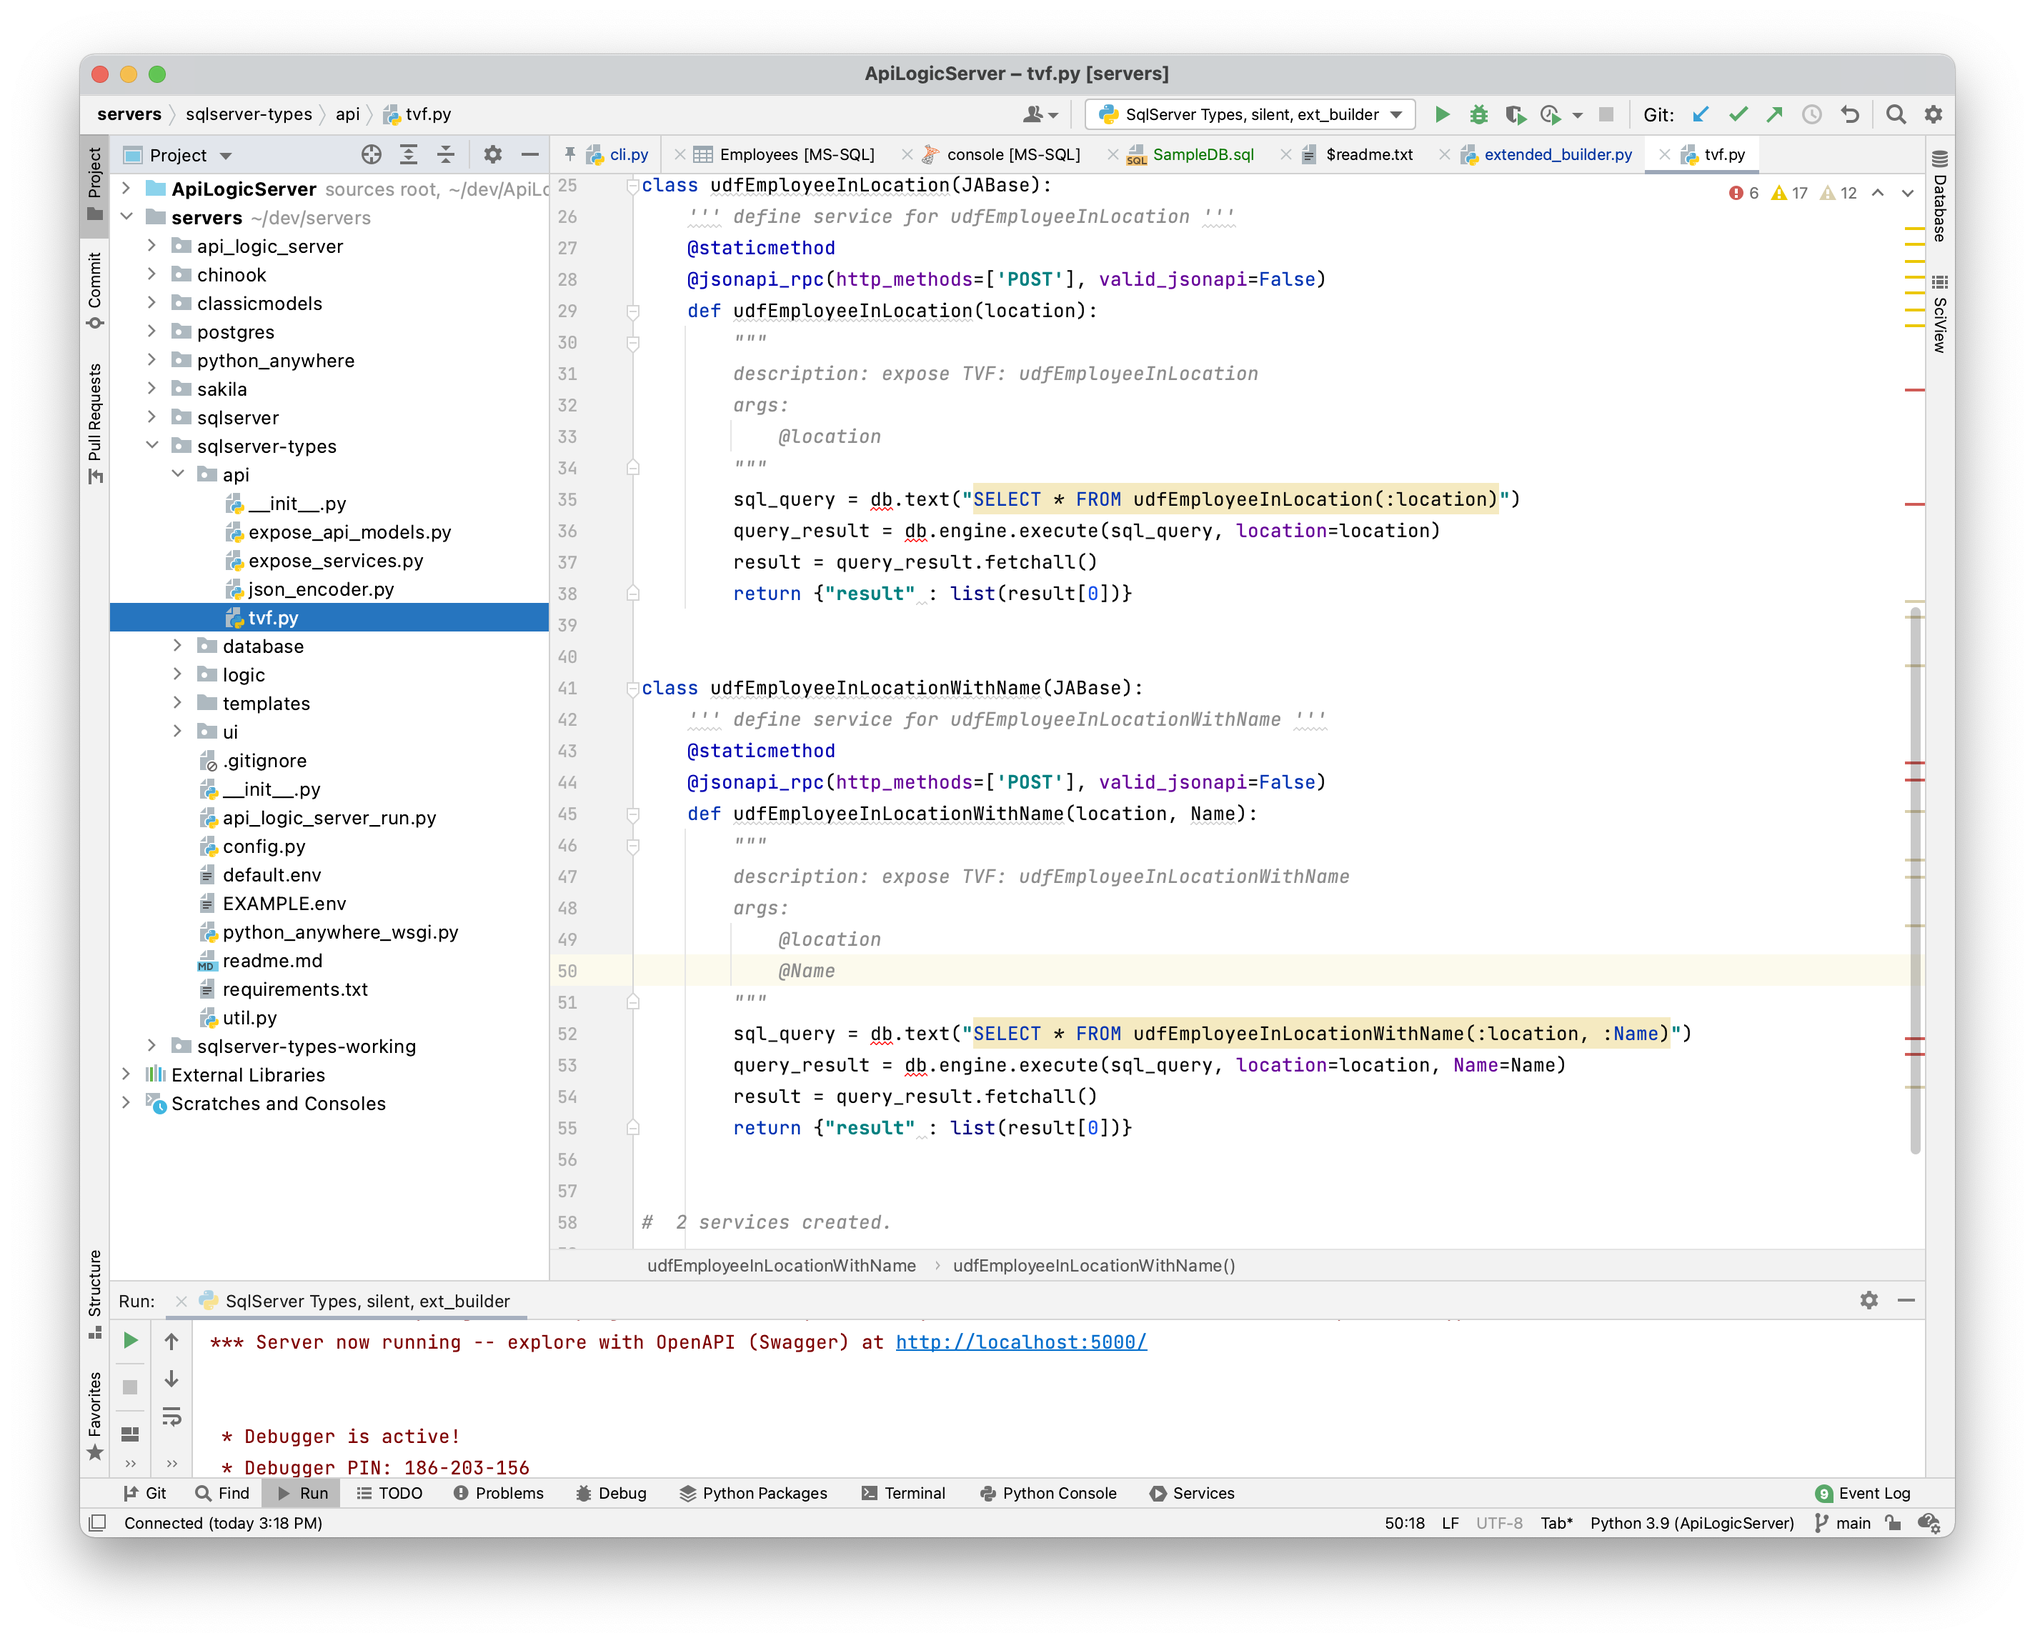
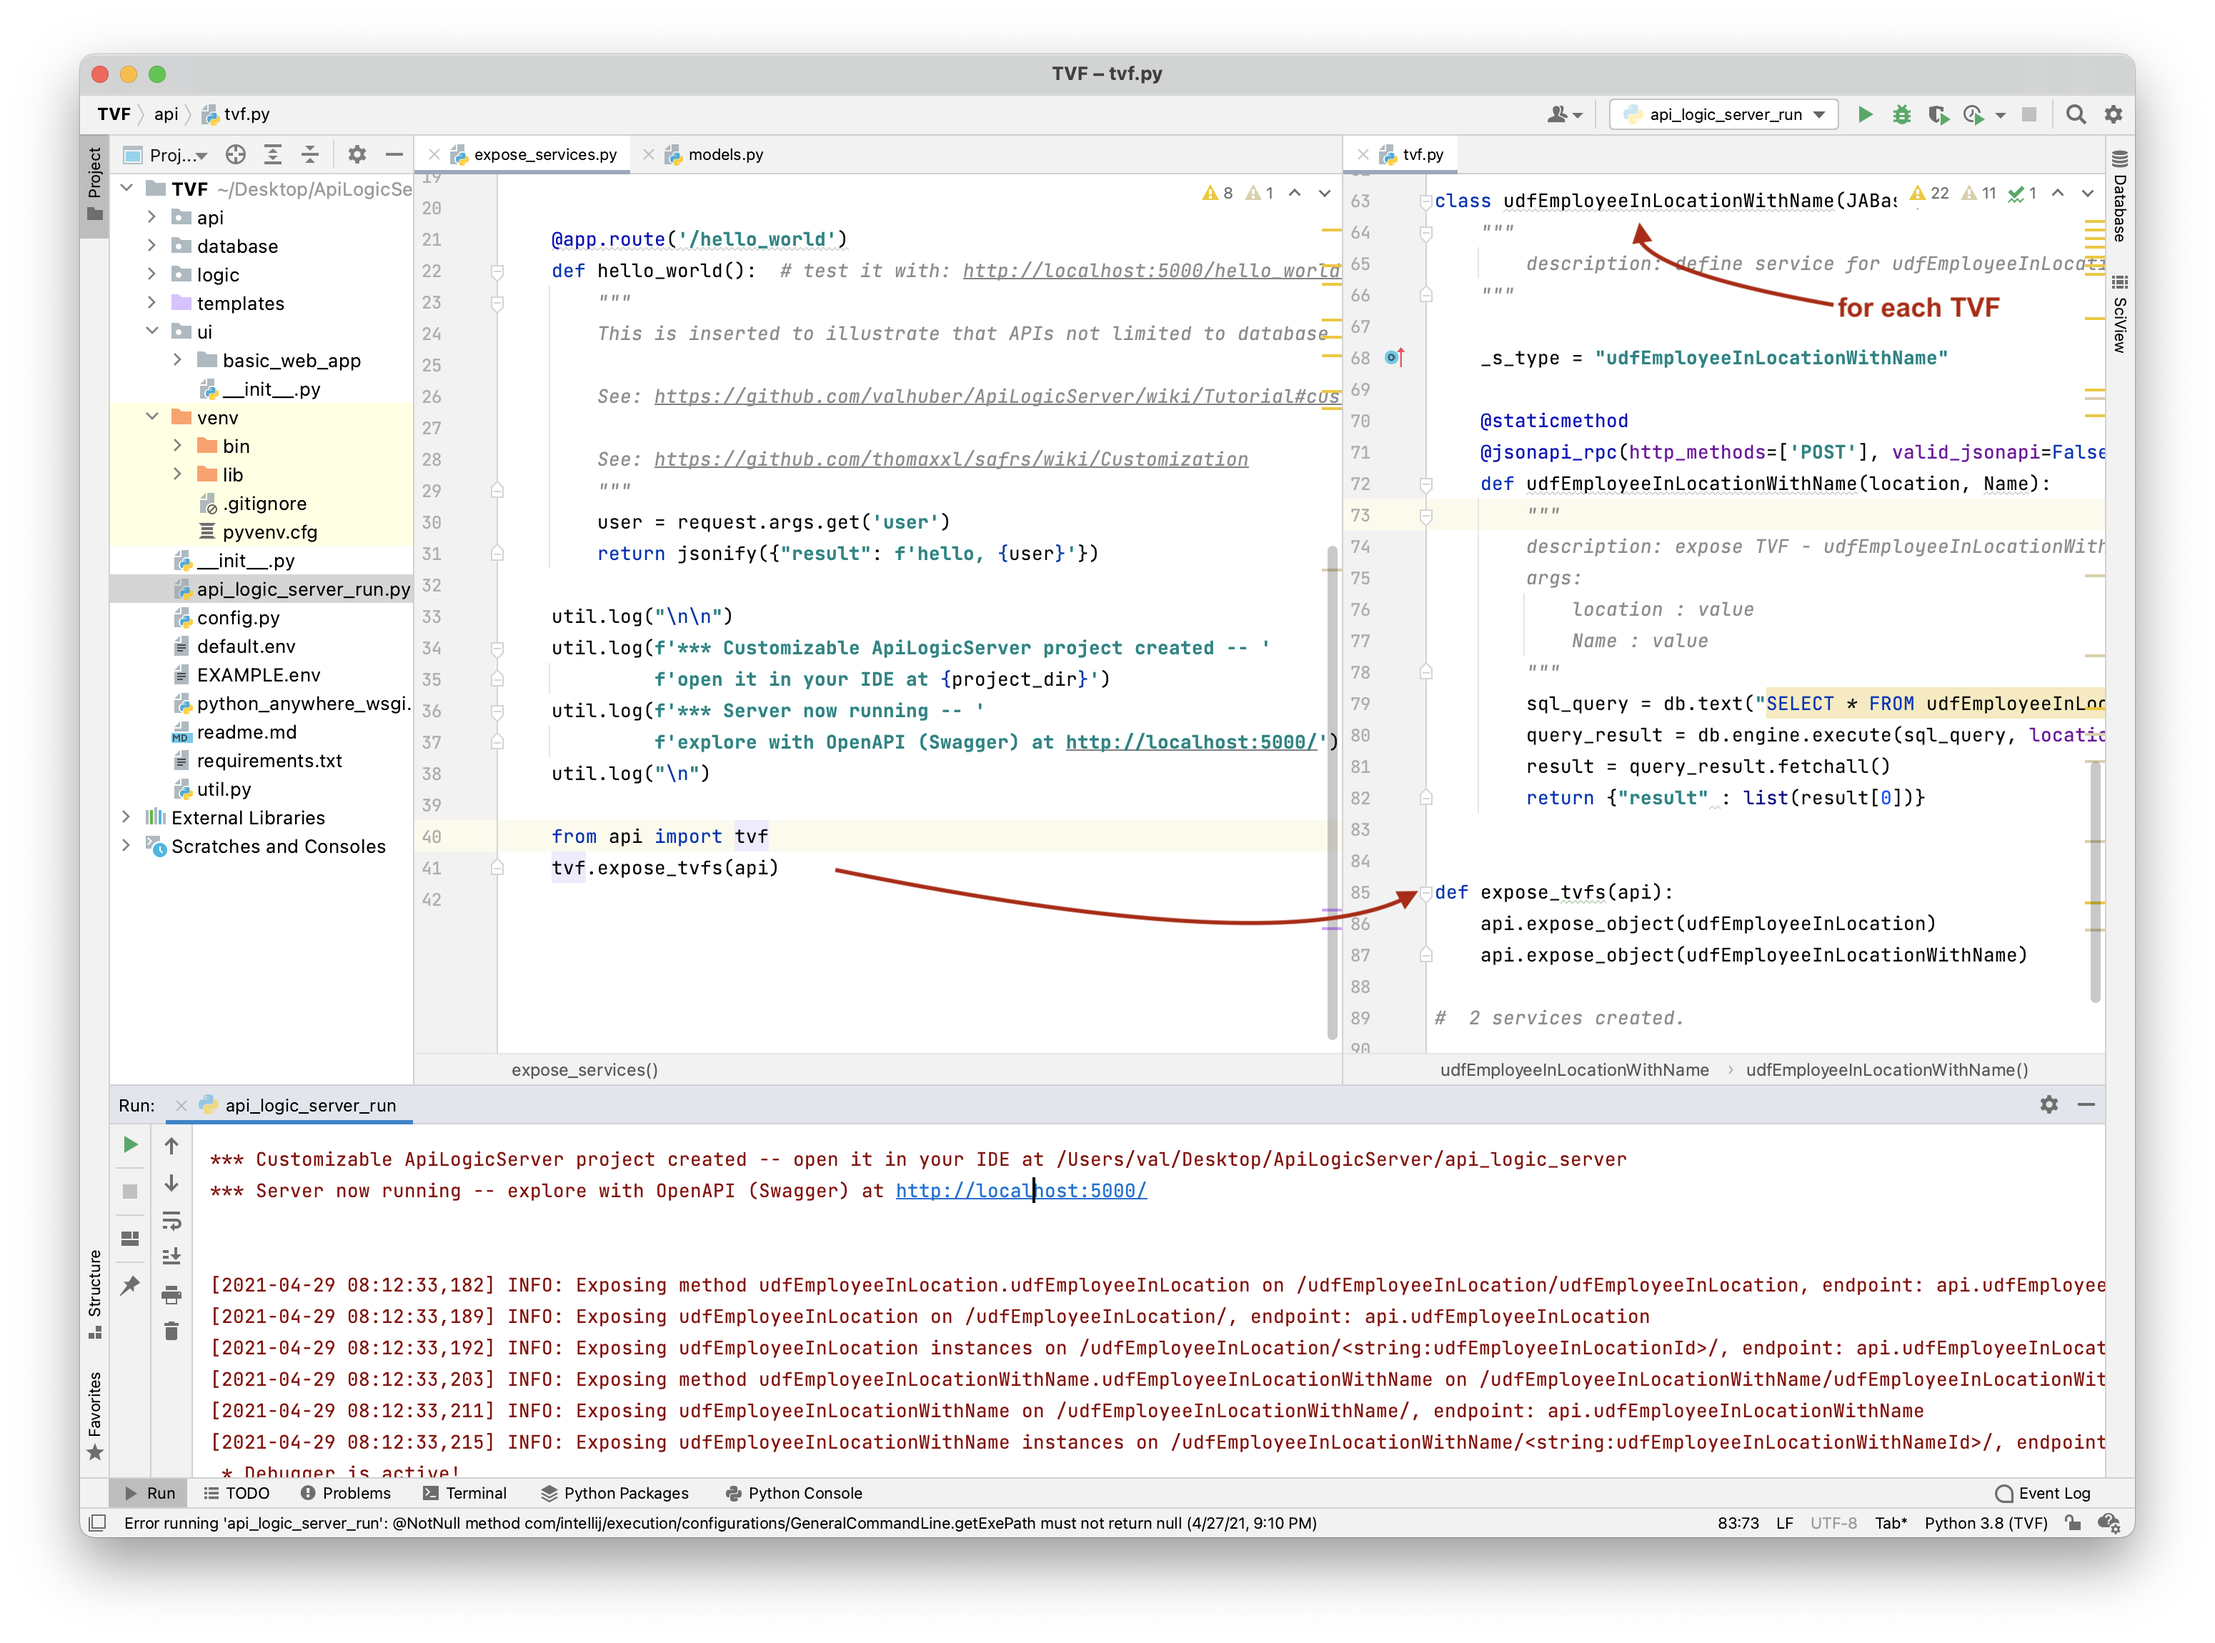
01.02: --extended_builder - Table Value Functions example running

Changed region(s): [[0.0312, 0.0309, 0.9688, 0.957], [0.5, 0.8952, 0.5312, 0.9261]]

diff --git a/api_logic_server_cli/extended_builder.py b/api_logic_server_cli/extended_builder.py
@@ -24,6 +24,8 @@ class TvfBuilder(object):
 
         self.number_of_services = 0
 
+        self.services = []
+
         self.tvf_contents = """# coding: utf-8
 from sqlalchemy import Boolean, Column, DECIMAL, DateTime, Float, ForeignKey, Integer, LargeBinary, String, Table, Text, UniqueConstraint, text
 from sqlalchemy.orm import relationship
@@ -73,8 +75,12 @@ from sqlalchemy.dialects.mysql import *
         self.tvf_contents += f'\n\n'
 
     def build_tvf_service(self, args: List[DotDict]):
+
+        self.services.append(args[0].ObjectName)
+
         self.tvf_contents += f'class {args[0].ObjectName}(JABase):\n'
         self.tvf_contents += f'\t"""\n\t\tdescription: define service for {args[0].ObjectName}\n\t"""\n\n'
+        self.tvf_contents += f'\t_s_type = "{args[0].ObjectName}"\n\n'
         self.tvf_contents += f"\t@staticmethod\n"
         self.tvf_contents += f"\t@jsonapi_rpc(http_methods=['POST'], valid_jsonapi=False)\n"
 
@@ -122,6 +128,14 @@ from sqlalchemy.dialects.mysql import *
         tvf_file = open(self.project_directory + '/api/tvf.py', 'w')
         tvf_file.write(self.tvf_contents)
         tvf_file.close()
+
+    def append_expose_services_file(self):
+        """ append import to -> append_expose_services_file """
+        import_statement = f'\n\n    from api import tvf\n'
+        import_statement += f'    tvf.expose_tvfs(api)\n'
+        expose_services_file = open(self.project_directory + '/api/expose_services.py', 'a')
+        expose_services_file.write(import_statement)
+        expose_services_file.close()
 
     def run(self):
         """ call by ApiLogicServer CLI -- scan db_url schema for TVFs, create api/tvf.py
@@ -194,9 +208,14 @@ from sqlalchemy.dialects.mysql import *
         if len(args) > 0:
             self.build_tvf_service(args)
 
-        self.tvf_contents += f'#  {self.number_of_services} services created.\n'
+        self.tvf_contents += f'def expose_tvfs(api):\n'
+        for each_service in self.services:
+            self.tvf_contents += f'\tapi.expose_object({each_service})\n'
+        self.tvf_contents += f'\n#  {self.number_of_services} services created.\n'
 
         self.write_tvf_file()
+
+        self.append_expose_services_file()
 
 
 def extended_builder(db_url, project_directory):

diff --git a/api_logic_server_cli/cli.py b/api_logic_server_cli/cli.py
@@ -34,7 +34,7 @@ from sqlalchemy import MetaData
 import inspect
 import importlib
 import click
-__version__ = "02.01.01"
+__version__ = "02.01.02"
 default_db = "<default -- nw.sqlite>"
 
 #  MetaData = NewType('MetaData', object)
@@ -1212,6 +1212,7 @@ def version(ctx):
     click.echo(
         click.style(
             f'Recent Changes:\n'
+            "\t04/29/2021 - 02.01.02: --extended_builder - Table Value Functions example running\n"
             "\t04/27/2021 - 02.01.01: Improved Services, option --extended_builder (e.g., restify Table Value Functions)\n"
             "\t04/23/2021 - 02.00.15: bug fix - SQLAlchemy version, server port\n"
             "\t04/21/2021 - 02.00.14: pythonanywhere - port option, wsgi creation\n"

diff --git a/prototype/api/expose_services.py b/prototype/api/expose_services.py
@@ -36,4 +36,3 @@ def expose_services(app, api, project_dir):
     util.log(f'*** Server now running -- '
              f'explore with OpenAPI (Swagger) at http://localhost:5000/')
     util.log("\n")
-
